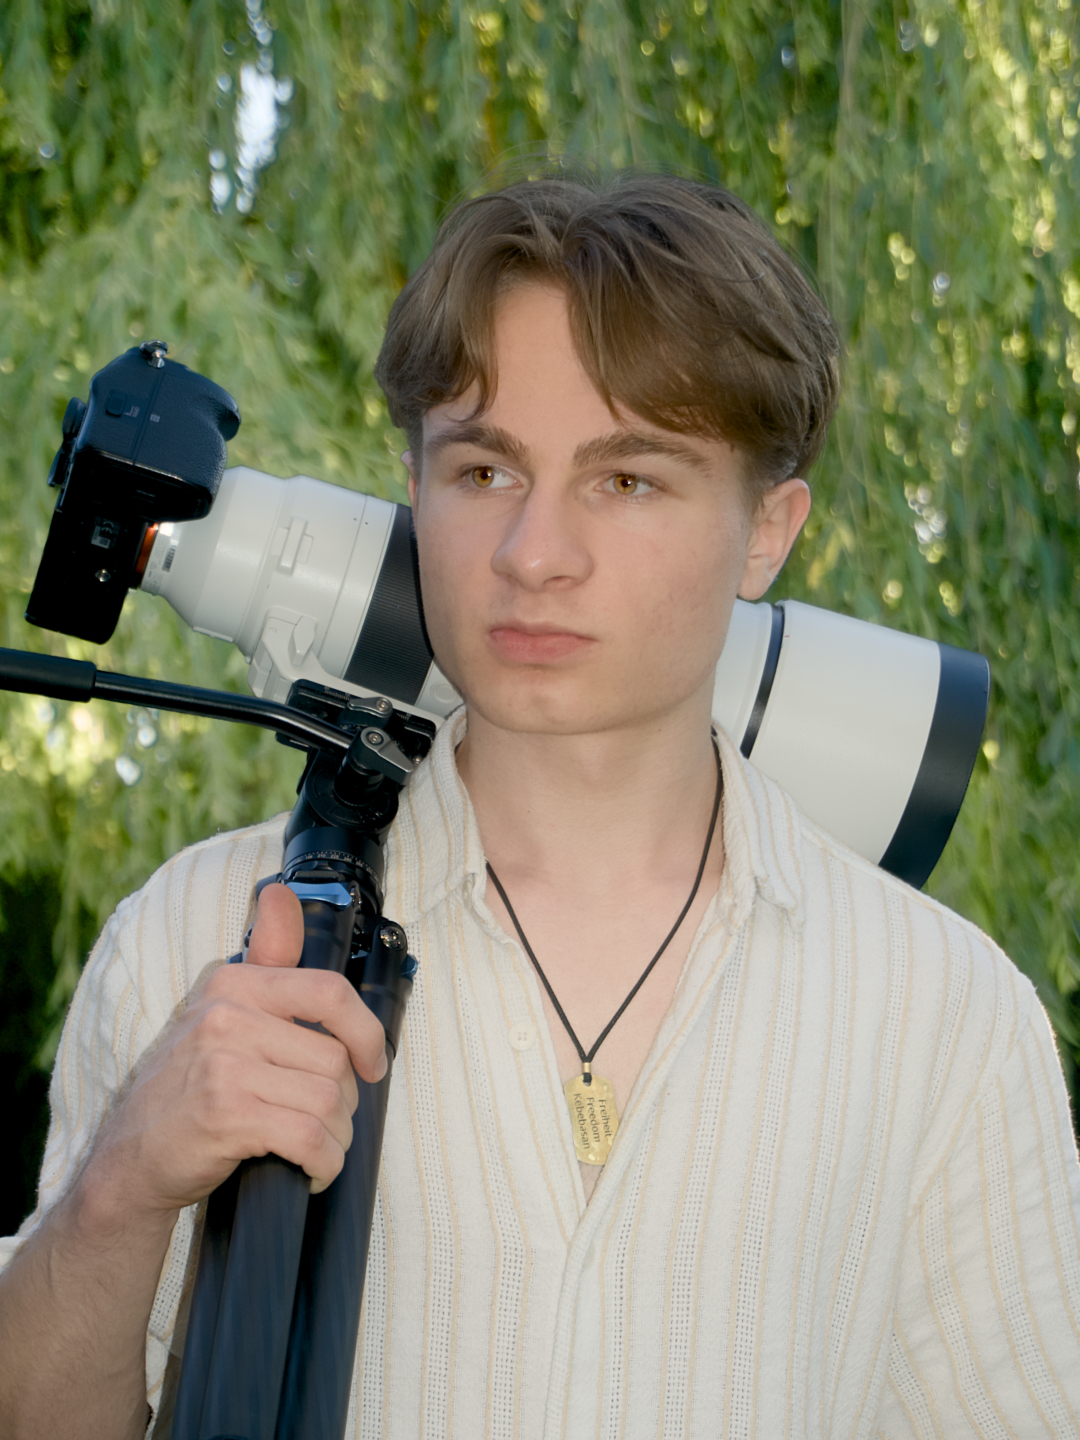
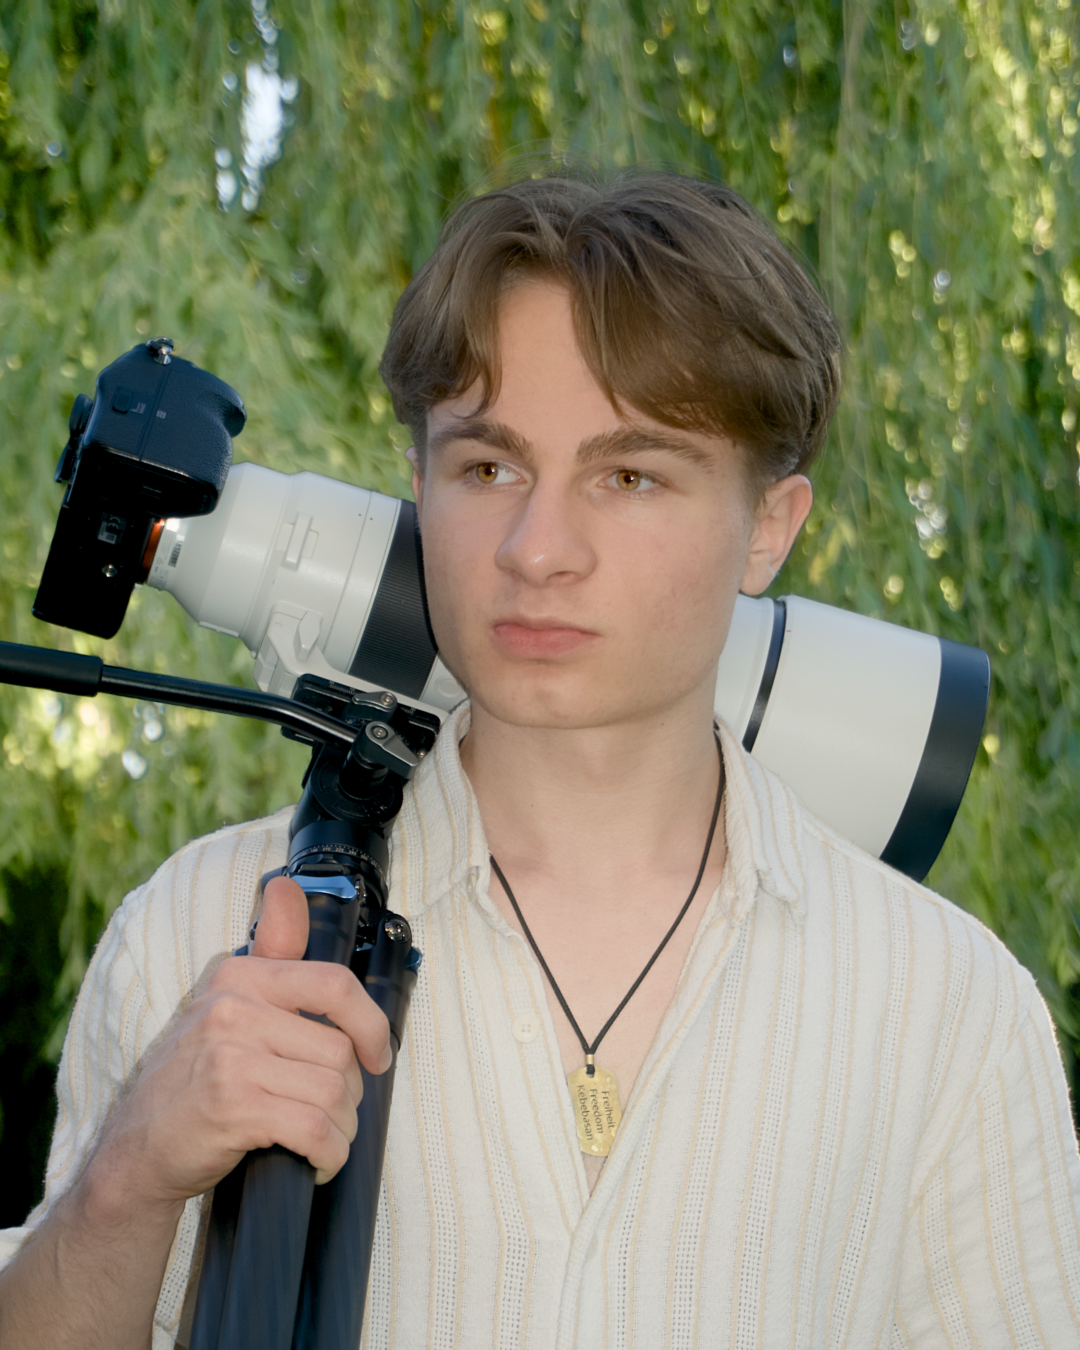
Add files via upload

diff --git a/wildlife.html b/wildlife.html
@@ -40,7 +40,42 @@
         </div>
 
         <div class="main">
+            <section class="gallery">
+                <div class="sub-gallery">
+                    <article class="gallery-item">
+                        <img src="Images/Wildlife/Photo 00006.jpg">
+                    </article>
 
+                   <article class="gallery-item">
+                        <img src="Images/Wildlife/Photo 00008.jpg" class="small-img">
+                        <h1>The early bird catches the worm. By visiting my favorite local lake in the early morning hours, you sometimes get rewarded with this beautiful fog on the surface, making these<span class="species" id="wildlife-002">Great crested grebes</span><span class="scientific-name"> (Podiceps cristatus)</span> and the <span class="species" id="wildlife-003">Mute swane</span> <span class="scientific-name"> (Cygnus olor)</span> appear in this very mystical light.</h1>
+                    </article>
+
+                   <article class="gallery-item">
+                        <img src="Images/Wildlife/Photo 00003.jpg">
+                    </article>
+
+                    <article class="gallery-item">
+                        <img src="Images/Wildlife/Photo 00001.jpg">
+                        <img src="Images/Wildlife/Photo 00002.jpg">
+                    </article>
+                </div>
+
+                <div class="sub-gallery">
+                    <article class="gallery-item">
+                        <h1>Quark! The <span class="species" id="wildlife-004"> Edible frog</span><span class="scientific-name"> (Pelophylax esculentus)</span> is actually a hybrid frog. It's a mixture between pool frogs and marsh frogs.</h1>
+                    </article>
+
+                    <article class="gallery-item">
+                        <img src="Images/Wildlife/Photo 00009.jpg">
+                    </article>
+
+                    <article class="gallery-item">
+                        <img src="Images/Wildlife/Photo 00007.jpg">
+                    </article>
+
+                </div>
+            </section>
         </div>  
 
         <div class="footer">

diff --git a/style.css b/style.css
@@ -55,18 +55,20 @@ a {
     gap: 2rem;
 
     position: fixed;
-    top: 0;
-    left: 0;
+    top: 0.5rem;
+    left: 1rem;
 
-    width: 100%;
+    width: calc(100% - 2rem);
     height: 70px;
 
     padding: 2rem;
 
+    border-radius: 20px;
+
     background: rgba(24, 24, 24, 0.8);
     backdrop-filter: blur(20px);
     
-    border-bottom: 1px solid gray;
+    border: 1px solid rgba(128, 128, 128, 0.5);
 
     z-index: 1000;
 }
@@ -87,7 +89,7 @@ a {
     width: 20px;
     height: 20px;
 
-    top: 25px;
+    top: calc(30px + 0.5rem);
     right: 2rem;
 
     transform: translate(-50%, -50%);
@@ -186,6 +188,42 @@ a {
     font-size: var(--step-3);
     font-family: var(--font-family-cursiv);
     color: var(--color-text-white)
+}
+
+.landing-buttons{
+    display: grid;
+    grid-template-columns: repeat(3, 1fr);
+    gap: 2rem;
+
+    padding: 2rem;
+}
+
+.landing-button{
+    position: relative;
+    flex: 1;
+    overflow: hidden;
+}
+
+.landing-button:hover h1 {
+    transform: translateY(-50%) scale(1.1);
+}
+
+.landing-button img{
+    filter: brightness(40%) blur(3px);
+}
+
+.landing-button h1{
+    position: absolute;
+    top: 50%;
+    transform: translateY(-50%);
+
+    width: 100%;
+    text-align: center;
+
+    color: var(--color-text-gray);
+    font-size: var(--step-0);
+
+    transition: transform 0.1s ease;
 }
 
 .divider {
@@ -342,6 +380,18 @@ hr {
     color: rgb(78, 82, 164);
 }
 
+#wildlife-002 {
+    color: rgb(246, 220, 185);
+}
+
+#wildlife-003 {
+    color: rgb(127, 174, 205);
+}
+
+#wildlife-004 {
+    color: rgb(226, 255, 141);
+}
+
 #about-001 {
     color: rgb(236, 88, 127);
 }
@@ -405,8 +455,12 @@ hr {
         transition: opacity 0.5s ease 0s;
     }
 
-    .landing {
-        margin-top: 70px;
+    .landing-buttons {
+         grid-template-columns: repeat(2, 1fr);
+    }
+
+    .gallery-item {
+        flex-direction: column;
     }
 
     .gallery-item img{
@@ -421,10 +475,6 @@ hr {
 @media (max-width: 300px) {
     .navbar-logo{
         opacity: 0;
-    }
-
-    .gallery-item {
-        flex-direction: column;
     }
 }
 

diff --git a/index.html b/index.html
@@ -40,7 +40,29 @@
         </div>
 
         <main>
-
+            <div class="divider">
+                <hr>
+            </div>
+            <div class="landing-buttons">
+                <div class="landing-button">
+                    <a href="underwater.html">
+                        <img src="Images/Underwater/Photo 00005.jpg">
+                    </a>
+                    <h1>Underwater</h1>
+                </div>
+                <div class="landing-button">
+                    <a href="wildlife.html">
+                        <img src="Images/Wildlife/Photo 00009.jpg">
+                    </a>
+                    <h1>Wildlife</h1>
+                </div>
+                <div class="landing-button">
+                    <a href="about.html"> 
+                        <img src="Images/About/Photo 00001.jpeg">
+                    </a>
+                    <h1>About Me</h1>
+                </div>
+            </div>
         </main>
  
 

diff --git a/about.html b/about.html
@@ -44,7 +44,7 @@
                 <div class="sub-gallery">
                     <article class="gallery-item"> 
                         <img src="Images/About/Photo 00001.jpeg" class="small-img">
-                        <h1>Hi theire, thats <span class="species" id="about-002">me</span> <span class="scientific-name"> (Homo sapiens)</span>! I am an underwater and wildlife photographer, trying to spend as much time in nature as possible. Always on my side: my camera. Because you never know what you midth encounter, don't you?</h1>
+                        <h1>Hi there, that's <span class="species" id="about-002">me</span>! I am an underwater and wildlife photographer, based in Berlin, Germany. I am trying to spend as much time in nature as possible. Always by my side: my camera. Because you never know what you midth encounter.</h1>
                     </article> 
                 </div>
 

diff --git a/underwater.html b/underwater.html
@@ -61,7 +61,7 @@
                     </article>
 
                     <article class="gallery-item">
-                        <h1>In the right light, <span class="species" id="underwater-009">Sea anemones</span> always look very mysterious and strange. Yet, they never fail to fascinate me with their vivid colors and tentacles swaying around.</h1>
+                        <h1>In the right light, <span class="species" id="underwater-009">Sea anemones</span> always look very mysterious and strange. They never fail to fascinate me with their vivid colors and tentacles swaying around.</h1>
                     </article>
 
                                         <article class="gallery-item">
